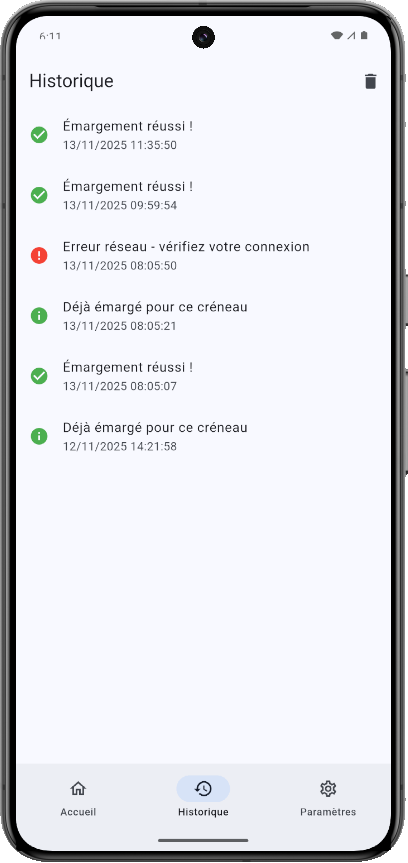
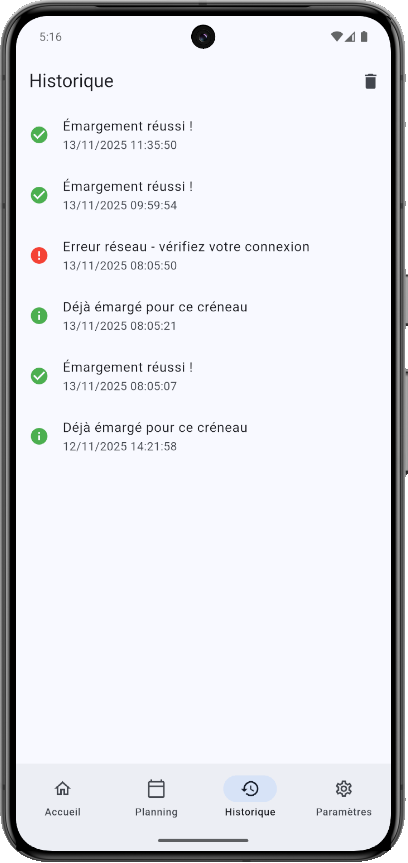
Update README

diff --git a/README.md b/README.md
@@ -12,9 +12,9 @@ Emargator automatise le processus d'émargement en ligne sur Moodle. L'applicati
 <p align="center">
    <img src="/assets/readme/main-screen.png" alt="Ecran principal" width="30%" />
    &nbsp;&nbsp;&nbsp;&nbsp;&nbsp;&nbsp;
-   <img src="/assets/readme/history-screen.png" alt="Historique" width="30%" />
+   <img src="/assets/readme/planning-screen.png" alt="Historique" width="30%" />
    &nbsp;&nbsp;&nbsp;&nbsp;&nbsp;&nbsp;
-   <img src="/assets/readme/settings-screen.png" alt="Paramètres" width="30%" />
+   <img src="/assets/readme/history-screen.png" alt="Paramètres" width="30%" />
 </p>
 
 **Créneaux d'émargement** (du lundi au vendredi) :
@@ -35,9 +35,7 @@ Emargator automatise le processus d'émargement en ligne sur Moodle. L'applicati
 
 ### Téléchargement
 
-- **Android** : [Google Play Store](https://play.google.com/store/apps) *(à venir)*
-- **iOS** : [App Store](https://apps.apple.com/) *(à venir)*
-- **Autres plateformes** : [Page des Releases GitHub](https://github.com/crazycat256/Emargator/releases)
+- **[Releases GitHub](https://github.com/crazycat256/Emargator/releases)**
 
 ## Compilation
 
